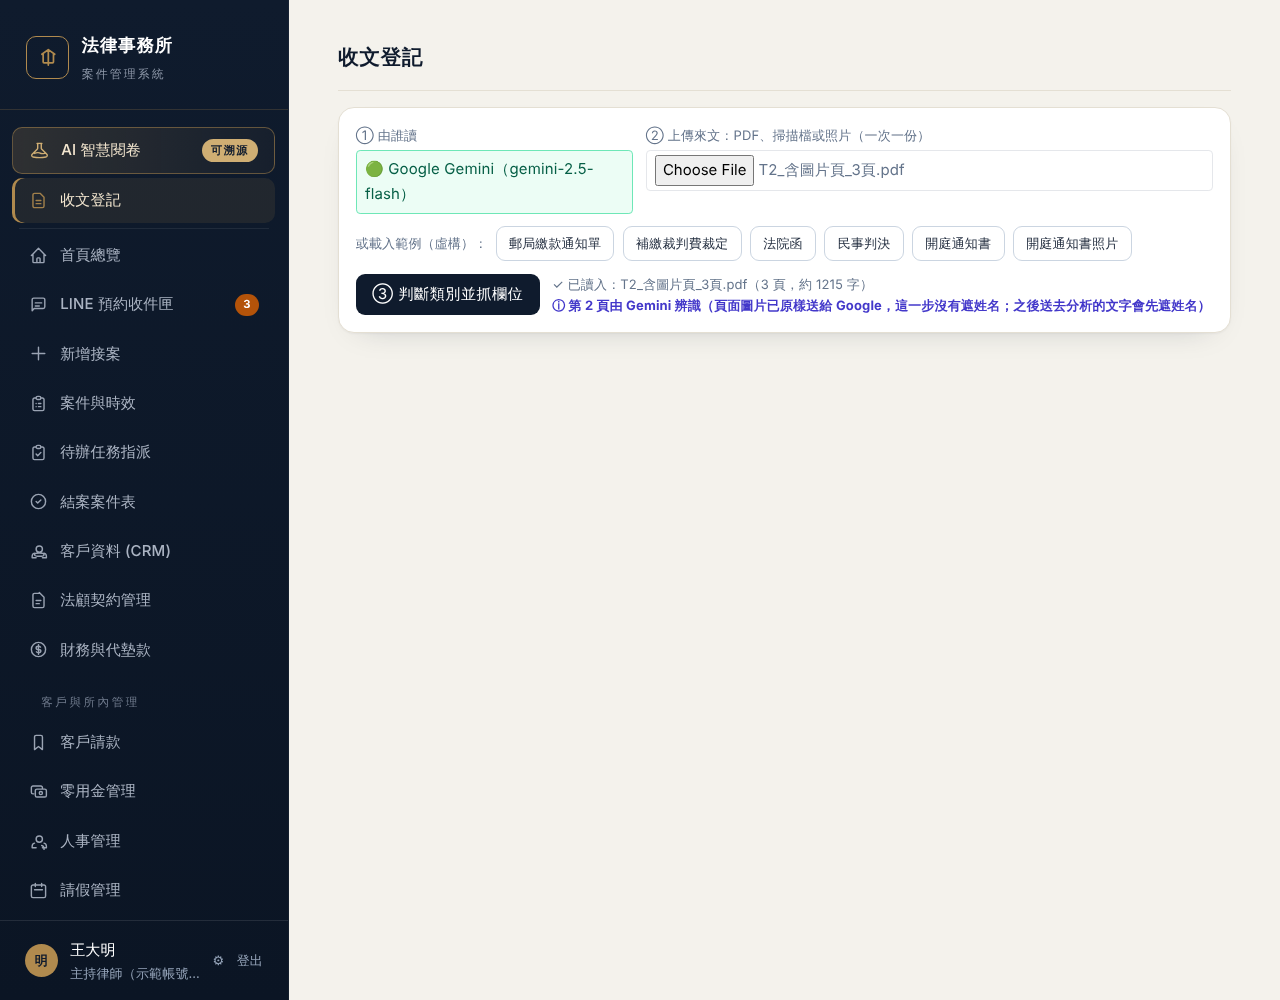
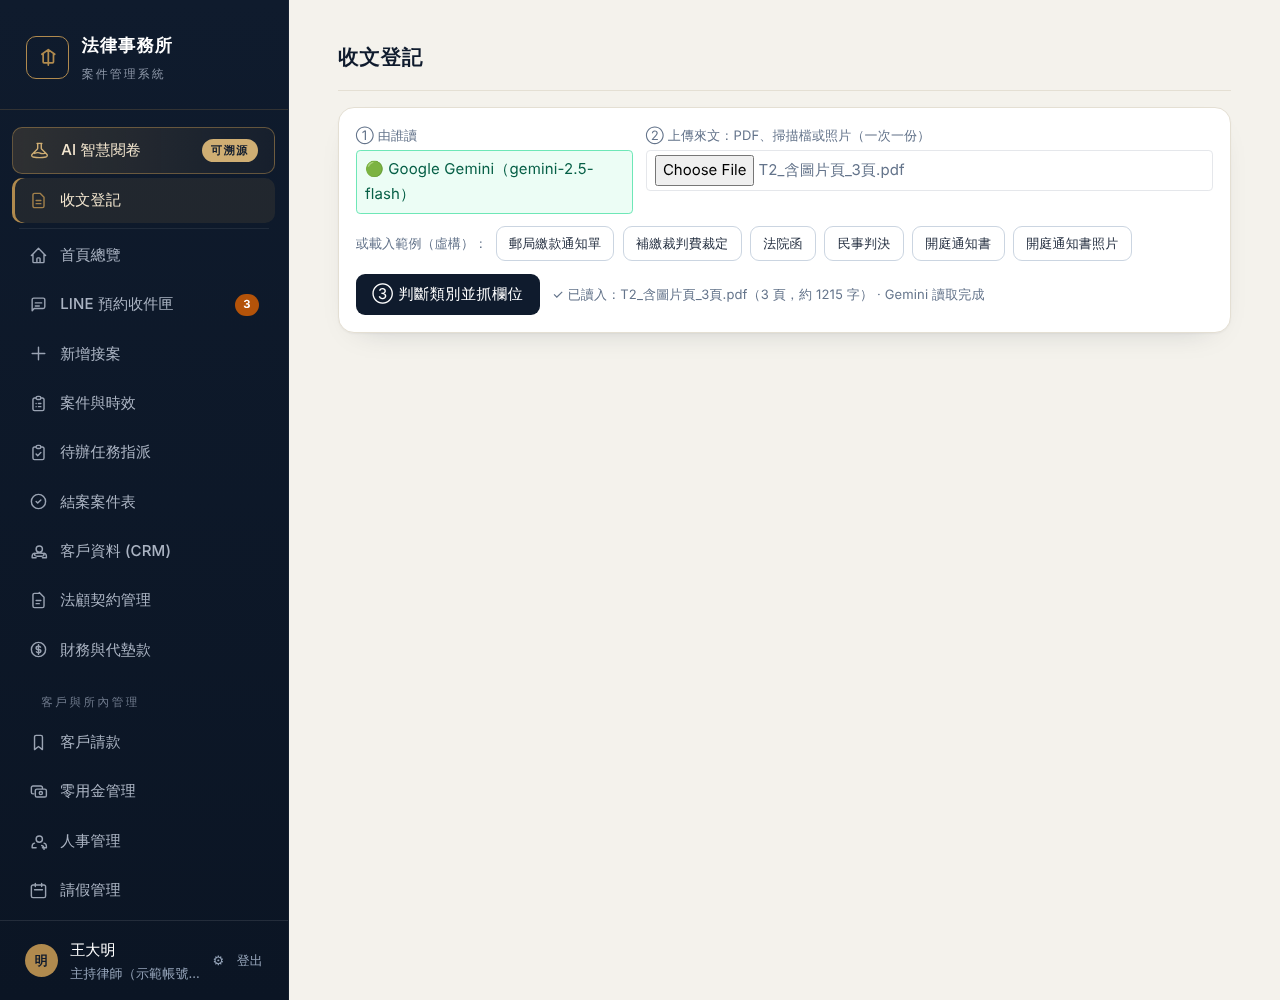
有金鑰時掃描頁全部交給 Gemini、不再跟本機 OCR 混用；空白頁略過不警告；狀態只留一行「Gemini 讀取完成」，真的失敗才一行錯誤；拿掉「圖片原樣送給 Google」說明；測試加空白頁情境
Claude-Session: https://claude.ai/code/session_01WqNXWWdedGteLyjvFcvaXm

Changed region(s): [[0.4375, 0.279, 0.9375, 0.31]]

diff --git a/tests/gemini-ocr.e2e.js b/tests/gemini-ocr.e2e.js
@@ -37,6 +37,7 @@ async function route(ctx, gem) {
       const n = +(String(ask.text || '').match(/第 (\d+) 頁/) || [])[1];
       const hasImg = !!(((body.contents || [])[0] || {}).parts || []).find((p) => p.inline_data && p.inline_data.data.length > 1000);
       calls.push({ page: n, hasImg, url: r.request().url() });
+      if (mode === 'blank') return r.fulfill({ status: 200, contentType: 'application/json', body: JSON.stringify({ candidates: [{ content: { parts: [{ text: '' }] }, finishReason: 'STOP' }] }) });
       if (mode === 'badkey') return r.fulfill({ status: 400, contentType: 'application/json', body: JSON.stringify({ error: { code: 400, status: 'INVALID_ARGUMENT', message: 'API key not valid. Please pass a valid API key.' } }) });
       const text = String((truth[n - 1] || {}).text || '').replace(/乙○○/g, '李大華');
       return r.fulfill({ status: 200, contentType: 'application/json', body: JSON.stringify({ candidates: [{ content: { parts: [{ text }] }, finishReason: 'STOP' }] }) });
@@ -67,13 +68,16 @@ async function route(ctx, gem) {
     } else if (mode === 'ok') {
       check(calls.length === 1 && calls[0].page === 2 && calls[0].hasImg, '只送第 2 頁（掃描頁）的圖片，第 1、3 頁有文字層不送');
       check(calls.every((c) => c.url.includes('key=' + FAKE_KEY)), '用管理員設定頁存的金鑰');
-      check(st.includes('第 2 頁由 Gemini 辨識') && st.includes('沒有遮姓名') && st.includes('會先遮姓名'), '畫面標示「由 Gemini 辨識」與圖片沒遮、分析有遮');
+      check(st.includes('Gemini 讀取完成') && !/遮姓名|原樣送給 Google|OCR 辨識|⚠/.test(st), '狀態只有一句「Gemini 讀取完成」，沒有其他警告');
       // AI 智慧閱卷：文字用 Gemini 的，但背景會用本機 OCR 取得座標（只為了「原文」螢光，圖片不上傳）；AI 自動填不需要
       if (!isAib) check(tess === 0, '全部成功時不下載本機 OCR 元件（收文登記）');
       if (isAib) check(aibText.includes('此頁由 Gemini 辨識') && aibText.includes('李大華'), '文字框裡該頁標示「此頁由 Gemini 辨識」');
+    } else if (mode === 'blank') {
+      check(calls.length === 1 && tess === 0, '空白頁：交給 Gemini 一次，沒有改用本機 OCR');
+      check(!/⚠|OCR 辨識|讀不到文字|失敗/.test(st), '空白頁直接略過：不算失敗、不顯示警告');
     } else {
       check(calls.length === 1, '金鑰錯：試過一次就停');
-      check(st.includes('金鑰無效') && st.includes('已改用本機辨識'), '畫面說明失敗原因與「已改用本機辨識」');
+      check(st.includes('Gemini 讀取失敗') && st.includes('金鑰無效') && st.includes('已改用本機辨識'), '真的失敗才顯示一行錯誤（金鑰無效，已改用本機辨識）');
       check(/OCR 辨識，可能有錯字|圖片、讀不到文字/.test(st), '退回本機 OCR');
     }
     const tag = `${isAib ? '閱卷' : '收文登記'}_${checked ? (mode === 'ok' ? '勾選Gemini' : '勾選但金鑰錯') : '不勾選本機'}`;
@@ -87,7 +91,7 @@ async function route(ctx, gem) {
       const prev = await p.evaluate(() => document.getElementById('deid-preview').innerText);
       check(/【(對造|人名|關係人|當事人)[A-Z0-9]+】/.test(prev) && !/被告\s*李大華/.test(prev.split('將送出')[1] || prev), '分析前的預覽：Gemini 轉回來的姓名（李大華）已換成代號');
       await p.screenshot({ path: path.join(SHOTS, `${tag}_2分析前已遮姓名.png`) });
-    } else if (!isAib && checked) {
+    } else if (!isAib && checked && mode === 'ok') {
       // 收文登記：有金鑰時用 Gemini 抓欄位 → 先跳出去識別化確認視窗，確認後才送
       await p.click('#in-run');
       await p.waitForSelector('#deid-preview', { timeout: 30000 });
@@ -98,7 +102,7 @@ async function route(ctx, gem) {
       const st2 = await p.evaluate(() => document.getElementById('in-status').textContent);
       log('  讀完：' + st2.replace(/\s+/g, ' ').slice(0, 200));
       check(/已遮蔽 \d+ 項個資/.test(st2), 'AI 讀取時文字已先遮個資');
-      if (checked) check(st2.includes('第 2 頁由 Gemini 辨識'), '讀完後仍保留「由 Gemini 辨識」說明');
+      if (checked) check(st2.includes('Gemini 讀取完成') && !/⚠ 第/.test(st2), '讀完後狀態仍只有「Gemini 讀取完成」');
       await p.screenshot({ path: path.join(SHOTS, `${tag}_2讀完.png`), fullPage: true });
     }
     check(!errs.length, '沒有頁面錯誤' + (errs.length ? '：' + errs[0] : ''));
@@ -108,6 +112,8 @@ async function route(ctx, gem) {
   await scenario('AI 智慧閱卷｜沒設定金鑰（本機 OCR）', 'aib', false, 'ok');
   await scenario('AI 智慧閱卷｜有金鑰（Gemini 假回應）', 'aib', true, 'ok');
   await scenario('AI 智慧閱卷｜金鑰錯（退回本機）', 'aib', true, 'badkey');
+  await scenario('AI 智慧閱卷｜掃描頁是空白頁（略過、不警告）', 'aib', true, 'blank');
+  await scenario('收文登記｜掃描頁是空白頁（略過、不警告）', 'af', true, 'blank');
   await scenario('收文登記｜沒設定金鑰（本機 OCR）', 'af', false, 'ok');
   await scenario('收文登記｜有金鑰（Gemini 假回應）', 'af', true, 'ok');
   await b.close();

diff --git a/modules/gemini-ocr.js b/modules/gemini-ocr.js
@@ -34,9 +34,9 @@
   // 「第 2、5 頁由 Gemini 辨識」
   function pagesNote(nums) {
     const list = (nums || []).filter((n) => Number.isFinite(n));
-    return list.length ? `第 ${list.join('、')} 頁由 Gemini 辨識（頁面圖片已原樣送給 Google，這一步沒有遮姓名；之後送去分析的文字會先遮姓名）` : '';
+    return list.length ? 'Gemini 讀取完成' : ''; // 2026-11-05：只留一句（事務所已決定直接交給 Google）
   }
-  const PAGE_MARK = '（此頁由 Gemini 辨識：圖片原樣送給 Google、未遮姓名；分析時文字會先遮姓名。請核對原文）';
+  const PAGE_MARK = '（此頁由 Gemini 辨識，請核對原文）';
 
   function buildRequest(base64, mime, pageNo) {
     return {
@@ -75,8 +75,9 @@
     const c = (j.candidates || [])[0] || {};
     const text = cleanText(((c.content || {}).parts || []).map((p) => p.text || '').join(''));
     if (text.replace(/[\s　]+/g, '').length >= MIN_CHARS) return { text };
-    const why = c.finishReason && c.finishReason !== 'STOP' ? '（' + c.finishReason + '）' : '';
-    return { error: '這一頁 Gemini 沒有回傳文字' + why, fatal: false };
+    // 2026-11-05：正常結束但沒有文字＝空白頁，略過、不算失敗
+    if (!c.finishReason || c.finishReason === 'STOP') return { text: '', blank: true };
+    return { error: '這一頁 Gemini 沒有回傳文字（' + c.finishReason + '）', fatal: false };
   }
 
   // 金鑰與模型：管理員設定頁（modules/ai-config.js）
@@ -134,7 +135,7 @@
       const say = (t) => { if (onStatus) { try { onStatus(t); } catch (e) { /* ignore */ } } };
       const cred = opt.credentials ? opt.credentials() : credentials();
       if (!cred.key) return { pages: [], error: '沒有 Gemini 金鑰（請到「AI 智慧閱卷」頁貼上）' };
-      const done = []; let error = '';
+      const done = []; let error = ''; let fatal = false;
       const list = ctx.imagePages || [];
       for (let k = 0; k < list.length; k++) {
         const pg = ctx.pages[list[k] - 1];
@@ -146,19 +147,21 @@
         const r = await recognize(b64, 'image/jpeg', { key: cred.key, model: cred.model, page: pg.n, fetch: opt.fetch });
         if (r.text) {
           pg.text = r.text; pg.chars = r.text.replace(/[\s　]+/g, '').length; pg.image = false; pg.gemini = true; done.push(pg.n);
+        } else if (r.blank) {
+          pg.text = ''; pg.chars = 0; pg.image = false; pg.blank = true; // 空白頁：略過，不警告
         } else {
           error = `第 ${pg.n} 頁：${r.error}`;
-          if (r.fatal) break;
+          if (r.fatal) { fatal = true; break; }
         }
       }
       if (opt.onProgress) { try { opt.onProgress(null); } catch (e) { /* ignore */ } }
-      return { pages: done, error };
+      return { pages: done, error, fatal, used: true };
     };
   }
 
   // 失敗原因 → 畫面說明（「Gemini 辨識沒有成功（…），已改用本機辨識」）
-  function fallbackNote(err) {
-    return err ? `Gemini 辨識沒有成功（${err}），沒成功的頁已改用本機辨識` : '';
+  function fallbackNote(err, fatal) {
+    return err ? `Gemini 讀取失敗（${err}）${fatal ? '，已改用本機辨識' : ''}` : '';
   }
 
   const api = { PROMPT, LABEL, PAGE_MARK, DEFAULT_MODEL, buildRequest, parseResponse, explainError, cleanText, recognize, credentials, checkboxHtml, hookFor, pagesNote, fallbackNote };

diff --git a/modules/intake.js b/modules/intake.js
@@ -609,7 +609,7 @@
         });
         const text = rd.pages.map((p) => p.text).join('\n');
         if (squash(text).length < 10) throw new Error('這份 PDF 讀不到文字（掃描檔辨識也沒有成功' + (rd.ocrError ? '：' + rd.ocrError : '') + '）。仍可在下方選類別、手動登記');
-        UI.doc = { name: file.name, image: false, text, numPages: rd.numPages, ocrPages: rd.ocrPages, imagePages: rd.imagePages, geminiPages: rd.geminiPages, geminiError: rd.geminiError };
+        UI.doc = { name: file.name, image: false, text, numPages: rd.numPages, ocrPages: rd.ocrPages, imagePages: rd.imagePages, geminiPages: rd.geminiPages, geminiError: rd.geminiError, geminiFatal: rd.geminiFatal };
         setStatus(`✓ 已讀入：${esc(file.name)}（${rd.numPages} 頁，約 ${squash(text).length} 字）${pageNotes(UI.doc)}`);
       }
       $('in-run').disabled = false; paintConsent();
@@ -625,8 +625,9 @@
   // 掃描頁說明：哪幾頁由 Gemini 辨識（圖片沒遮姓名）、哪幾頁是本機 OCR（可能有錯字）
   function pageNotes(doc) {
     const P = window.LF_PdfText; const G = window.LF_GeminiOcr; if (!doc || !P) return '';
-    return (G && doc.geminiPages && doc.geminiPages.length ? `<br><b class="text-indigo-700">ⓘ ${esc(G.pagesNote(doc.geminiPages))}</b>` : '')
-      + (G && doc.geminiError ? `<br><b class="text-amber-700">⚠ ${esc(G.fallbackNote(doc.geminiError))}</b>` : '')
+    // 2026-11-05：Gemini 成功只加「· Gemini 讀取完成」；真的失敗才一行錯誤
+    return (G && doc.geminiPages && doc.geminiPages.length && !doc.geminiError ? ` · ${esc(G.pagesNote(doc.geminiPages))}` : '')
+      + (G && doc.geminiError ? `<br><b class="text-red-600">⚠ ${esc(G.fallbackNote(doc.geminiError, doc.geminiFatal))}</b>` : '')
       + (doc.ocrPages && doc.ocrPages.length ? `<br><b class="text-amber-700">⚠ ${esc(P.ocrPagesNote(doc.ocrPages))}</b>，確認欄位時請對照原檔` : '')
       + (doc.imagePages && doc.imagePages.length ? `<br><b class="text-red-600">⚠ ${esc(P.imagePagesNote(doc.imagePages))}</b>，這幾頁的欄位請對照原檔自己填` : '');
   }

diff --git a/modules/pdftext.js b/modules/pdftext.js
@@ -364,10 +364,11 @@
     // 可選：使用者勾選「掃描頁用 Gemini 辨識」時，先送 Gemini（modules/gemini-ocr.js）；沒成功的頁才走下面的本機 OCR
     let remote = { pages: [], error: '' };
     if (imagePages.length && opts.remoteOcr) {
-      try { remote = (await opts.remoteOcr({ pdf, pages, imagePages: imagePages.slice(), renderToCanvas })) || remote; } catch (e) { remote = { pages: [], error: (e && e.message) || String(e) }; }
+      try { remote = (await opts.remoteOcr({ pdf, pages, imagePages: imagePages.slice(), renderToCanvas })) || remote; } catch (e) { remote = { pages: [], error: (e && e.message) || String(e), fatal: true, used: true }; }
       remote.pages.forEach((n) => { chars += pages[n - 1].chars; });
     }
-    const ocrTodo = imagePages.filter((n) => !remote.pages.includes(n));
+    // 2026-11-05：有交給 Gemini 就不再用本機 OCR 混著補（空白頁已略過）；只有 Gemini 整個不能用（金鑰錯、斷線）才退回本機
+    const ocrTodo = remote.used && !remote.fatal ? [] : imagePages.filter((n) => !remote.pages.includes(n) && pages[n - 1].image);
     const ocrPages = []; let ocrError = ''; let ocrMs = 0;
     if (ocrTodo.length && opts.ocr !== false) {
       const t0 = Date.now(); let worker = null;
@@ -412,7 +413,7 @@
     const gem = pages.filter((pg) => pg.gemini && !pg.ocrChars);
     if (gem.length && opts.ocr !== false && opts.locate !== false) locateInBackground(pdf, gem);
     const stillImage = ocrTodo.filter((n) => !ocrPages.includes(n));
-    return { printMarks, pdf, numPages: pdf.numPages, pages, imagePages: stillImage, ocrPages, blankPages, chars, ocrError, ocrMs, geminiPages: remote.pages, geminiError: remote.error || '' };
+    return { printMarks, pdf, numPages: pdf.numPages, pages, imagePages: stillImage, ocrPages, blankPages, chars, ocrError, ocrMs, geminiPages: remote.pages, geminiError: remote.error || '', geminiFatal: !!remote.fatal };
   }
 
   // ---- 本機 OCR 進度條（AI 智慧閱卷、收文登記、AI 自動填共用）：放在狀態文字下面，辨識完自動收起 ----

diff --git a/index.html b/index.html
@@ -6290,7 +6290,7 @@ section.page .bg-indigo-600:hover{background-color:var(--ink-2)!important}
         files.push({ name: f.name.replace(/\.pdf$/i, ''), pdf, numPages: pdf.numPages, report: isRep });
         const G = window.LF_GeminiOcr;
         const skipNote = window.LF_PdfText.skippedNote(rd.pages);
-        const imgNote = (G && rd.geminiPages && rd.geminiPages.length ? `；<b class="text-indigo-700">${G.pagesNote(rd.geminiPages)}</b>` : '') + (G && rd.geminiError ? `；<b class="text-amber-700">${esc(G.fallbackNote(rd.geminiError))}</b>` : '')
+        const imgNote = (G && rd.geminiPages && rd.geminiPages.length && !rd.geminiError ? ` · ${G.pagesNote(rd.geminiPages)}` : '') + (G && rd.geminiError ? `；<b class="text-red-600">${esc(G.fallbackNote(rd.geminiError, rd.geminiFatal))}</b>` : '')
           + (rd.ocrPages.length ? `；<b class="text-amber-700">${window.LF_PdfText.ocrPagesNote(rd.ocrPages)}${skipNote ? '；' + skipNote : ''}</b>` : '')
           + (chars >= 30 && rd.imagePages.length ? `；<b class="text-red-600">${window.LF_PdfText.imagePagesNote(rd.imagePages)}</b>，這幾頁的內容不會送去分析${rd.ocrError ? `（${esc(rd.ocrError)}）` : ''}` : '');
         notes.push(`文件${fi + 1}：${esc(f.name)}（${pdf.numPages} 頁${chars < 30 ? `，讀不到文字，可能是掃描檔${rd.ocrError ? `；文字辨識沒有成功：${esc(rd.ocrError)}` : ''}` : ''}）${imgNote}`);
